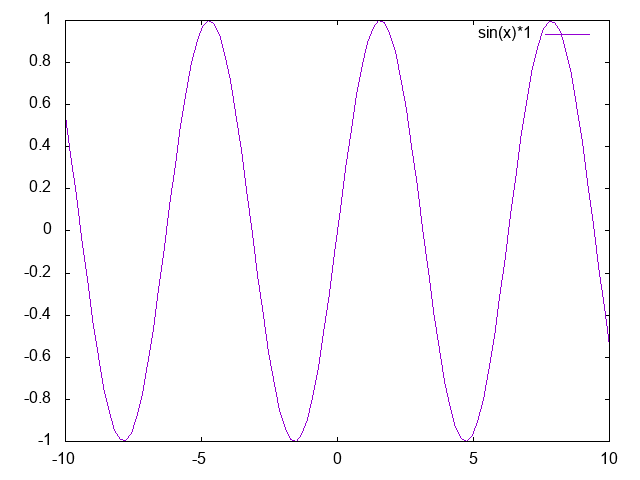
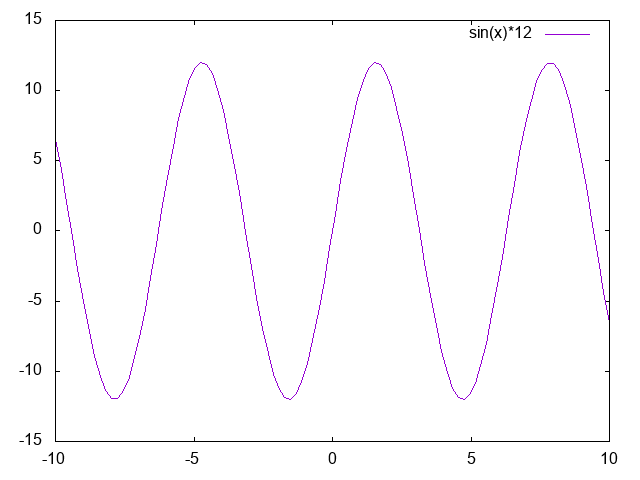
juttuja

diff --git a/6.php b/6.php
@@ -22,6 +22,10 @@
       Operation <input type="text" name="operation">
       <input type="submit">
     </form>
+    <form id="cacheSize">
+      Cache Size <input type="number" name="cacheSize">
+      <input type="submit">
+    </form>
     <div id="results"></div>
     <div id="canvasArea"></div>
   </div>
@@ -40,10 +44,10 @@ const getOperator = (operator) => {
         return 'divide';
     default:
         console.log('error');
+        return null;
   }
 };
 
-let fn = "";
 let nextOperationIndex = 1;
 let nextNumberIndex = 2;
 let calculations = [];
@@ -53,48 +57,120 @@ const newCanvas = () => {
   $('#canvasArea').html(canvas);
 };
 
-const update = () => {
+const update = (result) => {
   const canvas = document.querySelector('canvas');
   const ctx = canvas.getContext('2d');
   for (let i = 0; i < 400; i++) {
     let x = i / 20;
-    let y = eval(fn) * 5 + 100;
+    let y = Math.sin(x) * result * 5 + 100;
     ctx.lineTo(i/2, y, 1, 1);
   }
   ctx.stroke();
 };
 
-const doStuff = (operation, operators, numbers) => {
+const getCache = () => {
+  return JSON.parse(window.localStorage.getItem('calculations') || '[]');
+}
 
-  // const cachedValues = JSON.parse(window.localStorage.getItem('calculations'));
-  // console.log('cache', cachedValues);
-  // if (cachedValues) {
-  //   for (calculation of cachedValues) {
-  //     if (calculation.toString() === operation.toString()) {
-  //       $('#results').append(`${numbers[0]}${operators[0]}${numbers[1]}=jee<br>`);
-  //     }
-  //   }
-  // }
-  // calculations.push(operation);
+const getCacheSize = () => {
+  const defaultCacheSize = 5;
+  return parseInt(JSON.parse(window.localStorage.getItem('cacheSize') || defaultCacheSize));
+}
+
+let cacheSize = getCacheSize();
+
+const setCacheSize = (value) => {
+  cacheSize = value;
+  window.localStorage.setItem('cacheSize', JSON.stringify(value));
+}
+
+const setCache = (values) => {
+  let oldValues = getCache();
+
+  if (checkCache(values)) {
+    console.log('Arvo oli cachessa');
+    return;
+  }
+
+  if (oldValues.length >= cacheSize) {
+    oldValues = oldValues.splice(-(cacheSize - 1));
+  }
+
+  oldValues.push(values);
+
+  window.localStorage.setItem('calculations', JSON.stringify(oldValues));
+}
+
+const checkCache = (values) => {
+  const [first, second, operator] = values;
+  let inCache = false;
+
+  getCache().forEach(([oldFirst, oldSecond, oldOperator]) => {
+    if (oldFirst === first && oldSecond === second && oldOperator === operator) {
+      inCache = true;
+    }
+  });
+
+  return inCache;
+}
+
+
+const initial = () => {
+  const cachedValues = getCache();
+
+  console.log('cache', cachedValues.length);
+  if (cachedValues.length) {
+    $('#results').empty()
+
+    for (calculation of cachedValues) {
+      let result;
+      const [first, second, operator] = calculation;
+
+      if (operator === '+') {
+        result = first + second;
+      } else if (operator === '-') {
+        result = first - second;
+      } else if (operator === '*') {
+        result = first * second;
+      } else if (operator === '/') {
+        result = first / second;
+      }
+
+      $('#results').append(`${first}${operator}${second}=${result}<br>`);
+    }
+  }
+}
+
+const doStuff = (operation, operators, numbers) => {
+  if (checkCache(operation)) {
+    console.log('Arvo oli cachessa');
+    return;
+  }
 
   const realOperator = getOperator(operation[2]);
-  $.post({url: '2server.php',
-          data: `&value1=${operation[0]}&operator=${realOperator}&value2=${operation[1]}`})
+  $.post({
+    url: '2server.php',
+    data: `&value1=${operation[0]}&operator=${realOperator}&value2=${operation[1]}`
+  })
     .then(result => {
-      $('#results').append(`${operation[0]}${operation[2]}${operation[1]}=${result}<br>`);
       if (typeof numbers[nextNumberIndex] !== 'undefined') {
         let nextOperation = [result, numbers[nextNumberIndex], operators[nextOperationIndex]];
         nextOperationIndex++;
         nextNumberIndex++;
         return doStuff(nextOperation, operators, numbers);
       }
-      fn = `Math.sin(x)*${result}`;
+
+      setCache(operation);
+
+      initial();
+
       newCanvas();
-      update();
-      // window.localStorage.setItem('calculations', JSON.stringify(calculations));
+      update(result);
     });
   };
 
+
+initial();
 
 $('#calculator').submit(event => {
   event.preventDefault();
@@ -103,6 +179,11 @@ $('#calculator').submit(event => {
   const numbers = value.split(/[-+\*\/]/).map(val => parseInt(val));
   const firstOperation = [numbers[0], numbers[1], operators[0]];
   doStuff(firstOperation, operators, numbers);
+});
+
+$('#cacheSize').submit(event => {
+  event.preventDefault();
+  setCacheSize($('input[name="cacheSize"]').val());
 });
 </script>
 

diff --git a/3.php b/3.php
@@ -25,12 +25,13 @@
 <?php
   if( isset($_GET["val1"])) {
     	$value1 = $_GET["val1"];
-    	$multiplier = substr($value1, 0, 1);
+    	$multiplier = substr($value1, 0, 12);
     	$sine = substr($value1, 6, 1);
 
     	$content = "set terminal png\n
     				      set output 'test.png'\n
     				      plot sin(x)*".$multiplier;
+
 
     	file_put_contents("test.plot", $content);
       // For Linux host
@@ -41,7 +42,7 @@
      }
 
     ?>
-    <img src="<?php echo "test.png"; ?>">
+    <img src="test.png">
   </div>
 </div>
 

diff --git a/1.php b/1.php
@@ -1,3 +1,6 @@
+<?php
+session_start();
+?>
 <html>
 <body>
   <style>
@@ -29,7 +32,6 @@
     </form>
     <h2>
     <?php
-    session_start();
     $calculations = array();
 
    if( isset($_GET["val1"]) && isset($_GET["operator"]) && isset($_GET["val2"]) ) {
